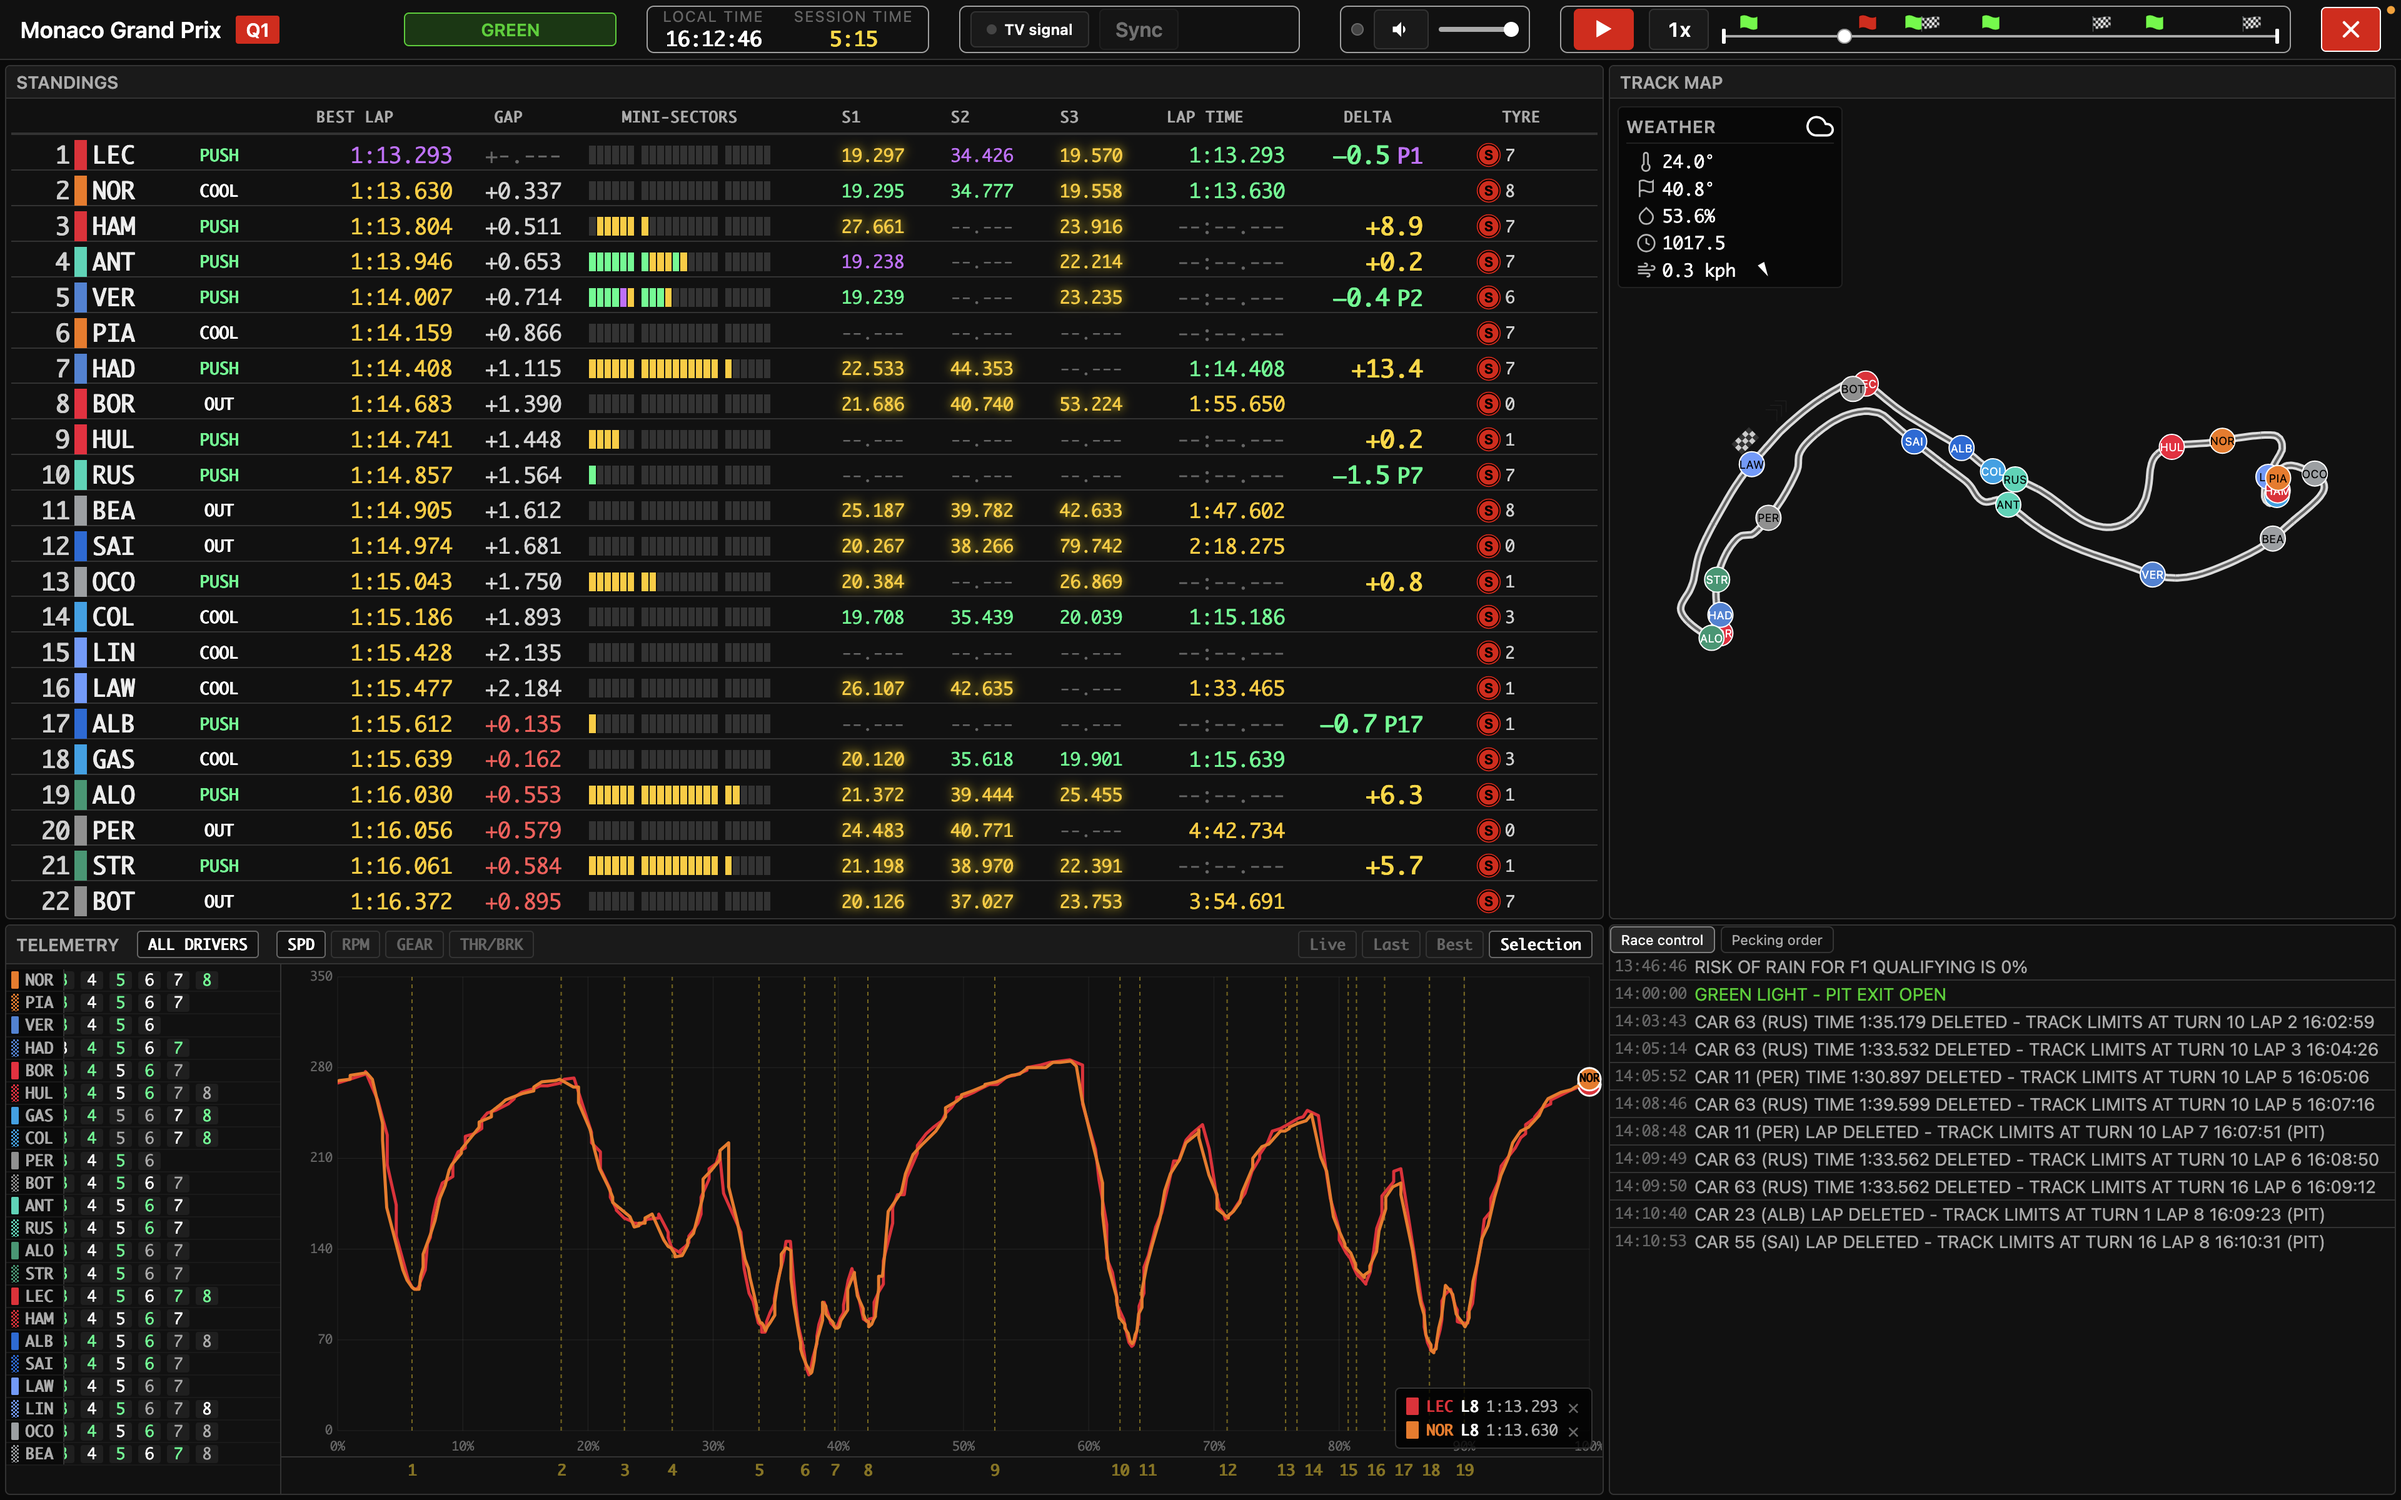
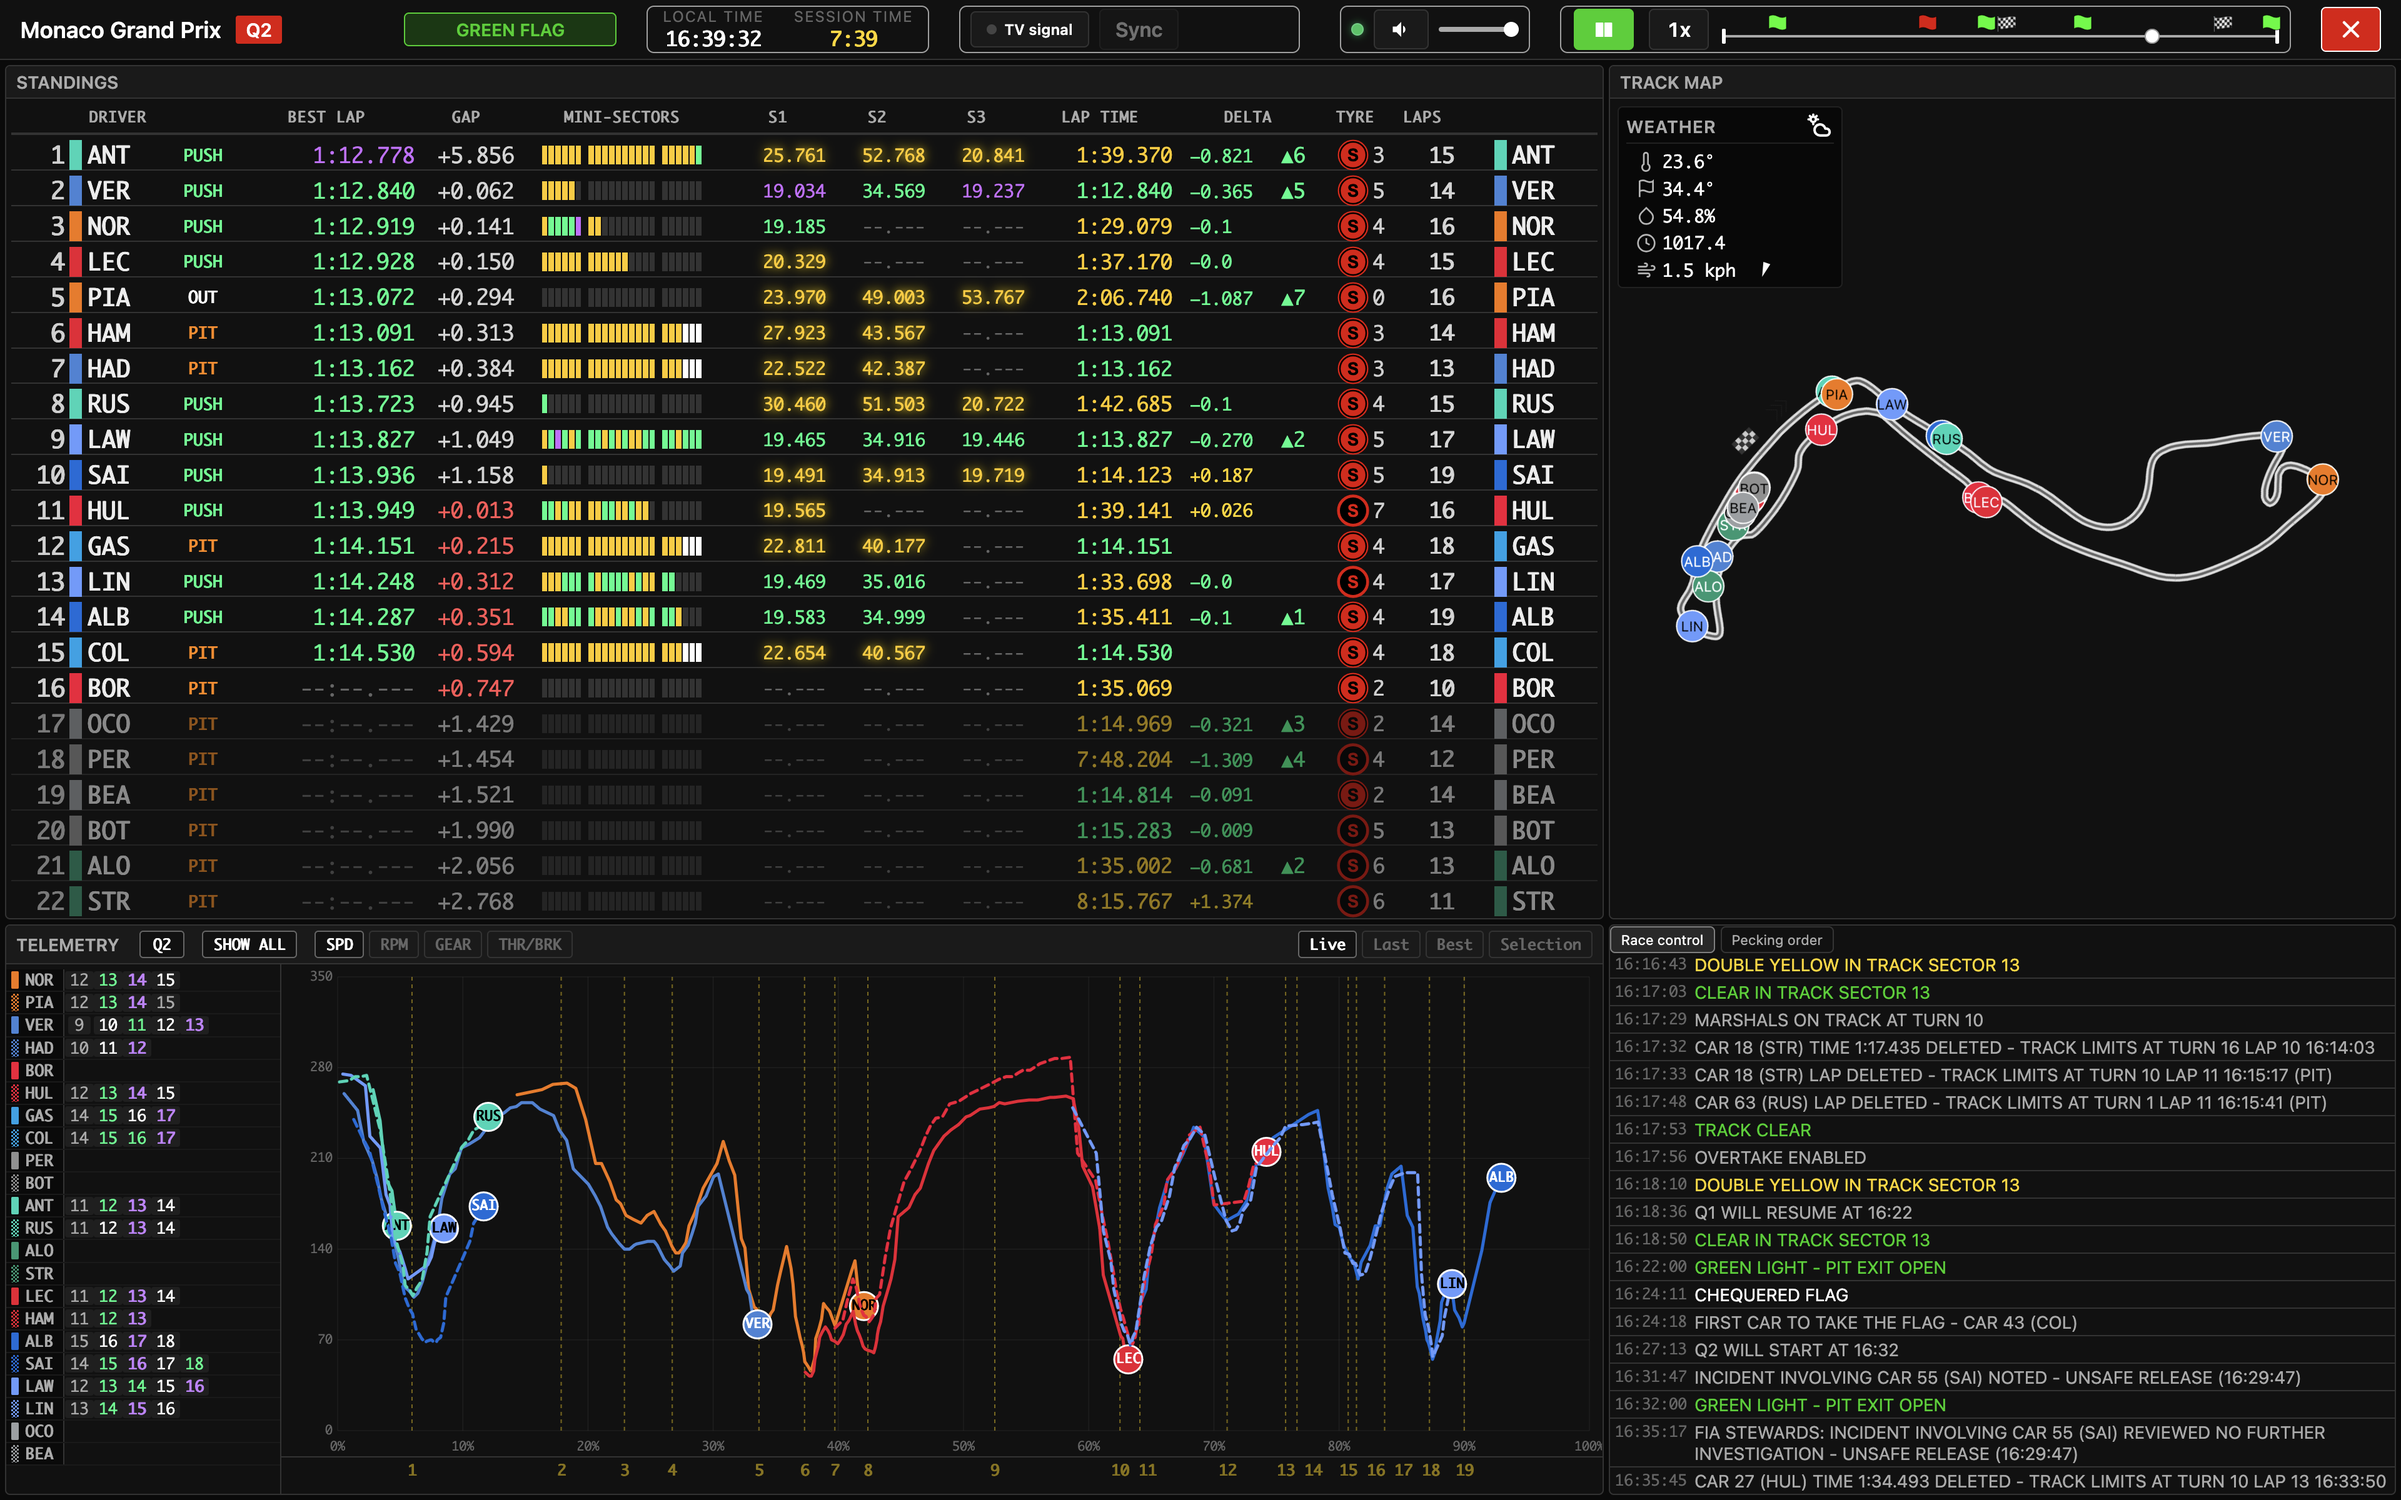
docs: correct v1.0.0 release date to June 7, 2026; refresh screenshots

diff --git a/README.md b/README.md
@@ -4,7 +4,7 @@
 
 A Formula 1 live-timing and replay application with synchronised audio commentary and per-session deep analysis.
 
-**Release 1.0.0** — May 7, 2026, day of the 2016 Monaco Grand Prix. Celebrating Mclaren's 1000th Grand Prix and 60th anniversary of their first Grand Prix (1966 Monaco Grand Prix).
+**Release 1.0.0** — June 7, 2026, day of the 2016 Monaco Grand Prix. Celebrating Mclaren's 1000th Grand Prix and 60th anniversary of their first Grand Prix.
 
 For what it does and how, see [DOCUMENTATION.md](DOCUMENTATION.md). For a tour of the interface, see [USER_GUIDE.md](USER_GUIDE.md).
 

diff --git a/DOCUMENTATION.md b/DOCUMENTATION.md
@@ -2,7 +2,7 @@
 
 A Formula 1 live-timing and replay application with synchronised audio commentary, multi-source analysis, and per-session deep dives.
 
-**Release 1.0.0** — May 7, 2026, day of the 2016 Monaco Grand Prix. Celebrating Mclaren's 1000th Grand Prix and 60th anniversary of their first Grand Prix (1966 Monaco Grand Prix).
+**Release 1.0.0** — June 7, 2026, day of the 2016 Monaco Grand Prix. Celebrating Mclaren's 1000th Grand Prix and 60th anniversary of their first Grand Prix.
 
 The server listens on port **1950**, an homage to the first F1 World Championship.
 
